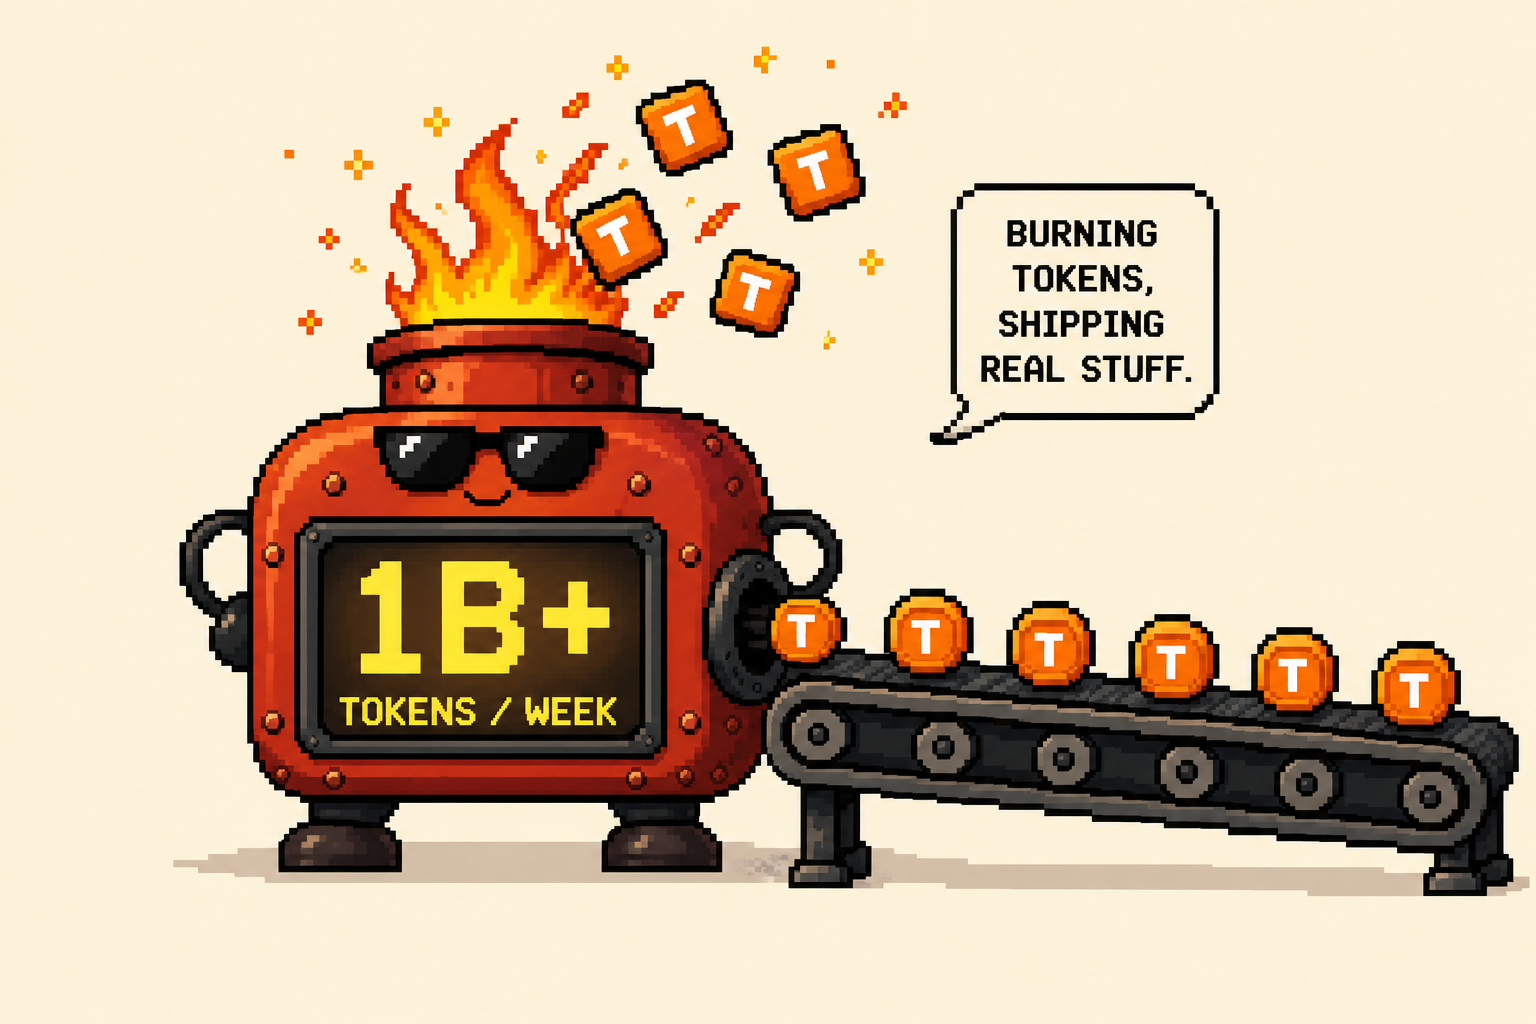
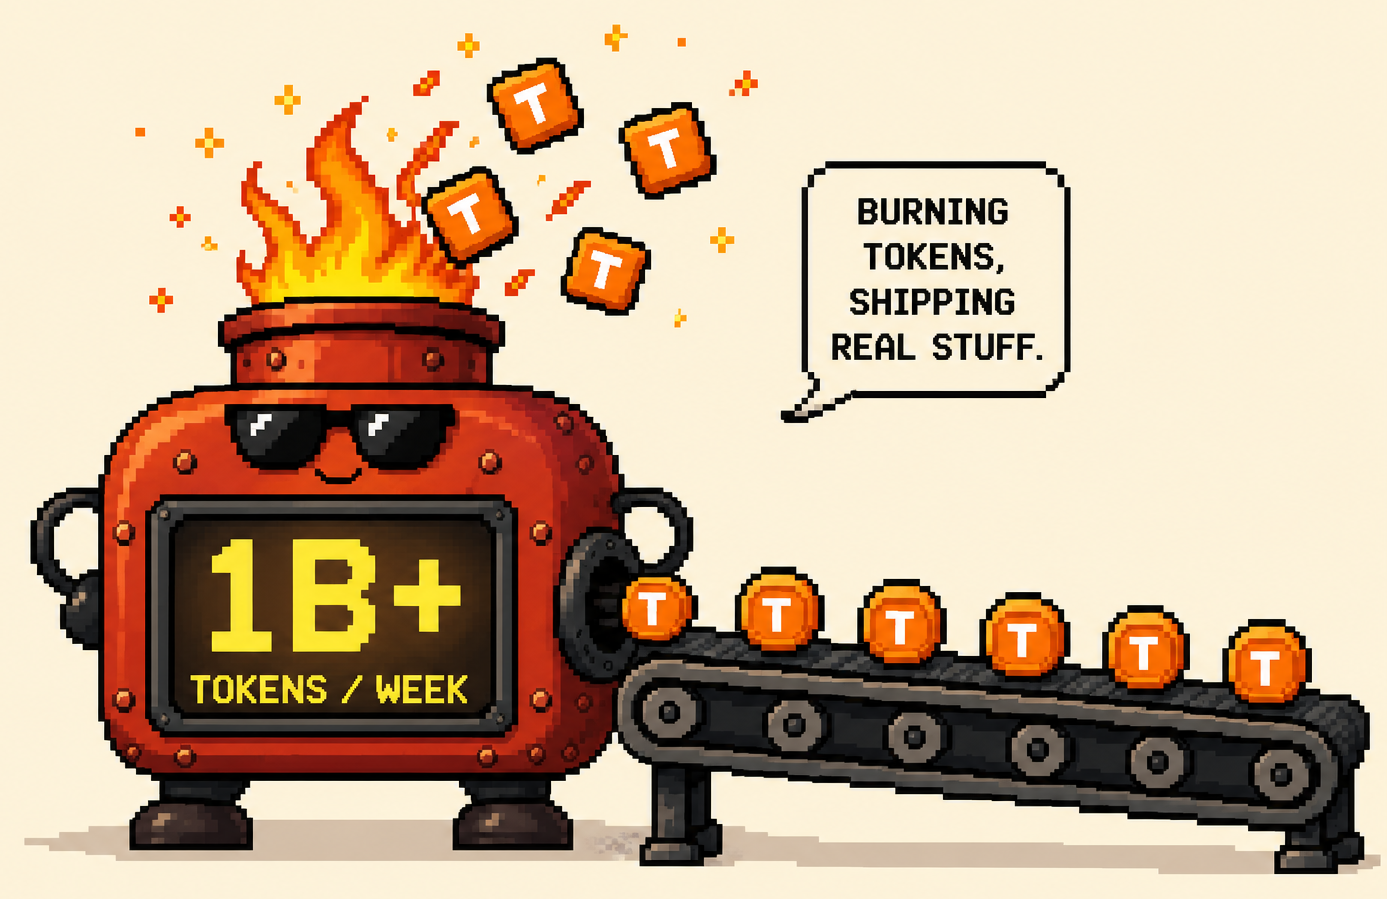
Fix honor highlight centering and rebuild tokens stage layout
last time the hacktoberfest highlight box had the star and copy glued to the top left with a bunch of empty tint under it which looked half finished. now the whole block is centered and the type plus star are big enough to actually fill the box

tokens side also got rebuilt again becoz stacking the blast over HOW IT FLOWS in a wide short strip kept turning the furnace into a postage stamp. now its a side stage furnace left logos right cropped blast art and short metric values so the pixel font doesnt wrap mid cell

diff --git a/src/components/card/card-back.tsx b/src/components/card/card-back.tsx
@@ -263,8 +263,8 @@ function HonorWorldCard({
 
 /**
  * Tokens zone — unique from other honors (no left tile).
- * header · copy + full blast furnace/conveyor · open Simple Icons flow · metrics.
- * No cream wash overlays — the blast art has to read whole.
+ * Wide-short stacks turn the blast into a postage stamp, so this is a side stage:
+ * furnace+conveyor on the left (full height), HOW IT FLOWS logos on the right.
  */
 function TokensHonorDetail({ honor }: { honor: BackHonor }) {
   const accent = honor.color;
@@ -275,94 +275,77 @@ function TokensHonorDetail({ honor }: { honor: BackHonor }) {
       className="relative flex-1 min-h-0 flex flex-col rounded-[10px] border-2 overflow-hidden bg-white"
       style={{ borderColor: accent }}
     >
-      <div className="min-h-0 flex-1 flex flex-col px-3 pt-2.5 gap-1.5 overflow-hidden">
-        {/* header */}
-        <div className="shrink-0 flex items-start justify-between gap-2">
-          <div className="min-w-0 flex flex-col gap-1">
-            <div className="flex items-end gap-1.5 flex-wrap">
-              <span className="font-pixel text-[12px] leading-none" style={{ color: accent }}>
-                1B+ TOKENS
-              </span>
-              <span className="font-pixel text-[8px] leading-none text-[#1f2a44]">
-                🔥 PER WEEK 🔥
-              </span>
-            </div>
-            <div className="flex items-center gap-1.5 flex-wrap">
-              <span
-                className="inline-flex items-center gap-1 font-pixel text-[5px] leading-none px-1.5 py-[3px] rounded-full text-white"
-                style={{ background: accent }}
-              >
-                <NounIcon name="bolt" color="#ffffff" size={8} />
-                AI VELOCITY MODE
-              </span>
-              <span className="font-card text-[11px] font-semibold leading-snug" style={{ color: accent }}>
-                {honor.sub}
-              </span>
-            </div>
-          </div>
-          {!honor.placeholder && (
-            <a
-              href={honor.url}
-              {...(proofExternal ? { target: "_blank", rel: "noopener noreferrer" } : {})}
-              onClick={(e) => e.stopPropagation()}
-              className="shrink-0 font-pixel text-[6px] leading-none px-2 py-1.5 rounded-[4px] text-white border-2 cursor-pointer hover:brightness-110 active:scale-[0.97] transition-all"
-              style={{ background: accent, borderColor: NAVY, boxShadow: "0 2px 0 rgba(0,0,0,0.2)" }}
-            >
-              OPEN PROOF {proofExternal ? "↗" : "→"}
-            </a>
-          )}
+      <div className="shrink-0 flex items-center justify-between gap-2 px-3 pt-2 pb-1.5">
+        <div className="min-w-0 flex items-center gap-2 flex-wrap">
+          <span className="font-pixel text-[11px] leading-none" style={{ color: accent }}>
+            1B+ TOKENS
+          </span>
+          <span className="font-pixel text-[7px] leading-none text-[#1f2a44]">🔥 / WK</span>
+          <span
+            className="inline-flex items-center gap-1 font-pixel text-[5px] leading-none px-1.5 py-[3px] rounded-full text-white"
+            style={{ background: accent }}
+          >
+            <NounIcon name="bolt" color="#ffffff" size={8} />
+            AI VELOCITY
+          </span>
         </div>
+        {!honor.placeholder && (
+          <a
+            href={honor.url}
+            {...(proofExternal ? { target: "_blank", rel: "noopener noreferrer" } : {})}
+            onClick={(e) => e.stopPropagation()}
+            className="shrink-0 font-pixel text-[6px] leading-none px-2 py-1.5 rounded-[4px] text-white border-2 cursor-pointer hover:brightness-110 active:scale-[0.97] transition-all"
+            style={{ background: accent, borderColor: NAVY, boxShadow: "0 2px 0 rgba(0,0,0,0.2)" }}
+          >
+            OPEN PROOF {proofExternal ? "↗" : "→"}
+          </a>
+        )}
+      </div>
 
-        {/* stage — blast takes the whole middle; logos drop under the conveyor (no wash, no second band) */}
+      <div className="min-h-0 flex-1 flex gap-2 px-3 pb-1.5 overflow-hidden">
+        {/* blast — gets the height budget so furnace + conveyor actually read */}
         <div
-          className="relative min-h-0 flex-1 rounded-[8px] overflow-hidden flex flex-col"
+          className="relative min-w-0 flex-[1.35] rounded-[8px] overflow-hidden"
           style={{ background: "#f4eee4" }}
         >
-          <div className="relative min-h-0 flex-1 flex items-center justify-center px-1 pt-1">
-            <img
-              src={`${honor.heroArt ?? honor.artTile}?v=7`}
-              alt=""
-              className="h-full w-full object-cover object-[50%_48%] pixelated"
-              style={{ imageRendering: "pixelated" }}
-              draggable={false}
-            />
-            <span
-              className="absolute left-2 top-2 inline-flex items-center gap-1 font-pixel text-[5px] leading-none px-1.5 py-1 rounded-[4px] text-white"
-              style={{ background: accent }}
-            >
-              <NounIcon name="flame" color="#ffffff" size={8} />
-              {honor.rank}
-            </span>
-          </div>
-          <div className="shrink-0 flex items-center gap-2 px-2 pb-1.5 pt-0.5">
-            <span
-              className="font-pixel text-[5px] leading-none px-1.5 py-1 rounded-[3px] text-white shrink-0"
-              style={{ background: "#1f2a44" }}
-            >
-              HOW IT FLOWS
-            </span>
-            <div className="min-w-0 flex-1 flex items-center justify-between gap-1">
-              {agents.map((agent) => (
-                <div
-                  key={agent.label}
-                  className="min-w-0 flex flex-col items-center gap-0.5"
-                  title={`${agent.label} — ${agent.blurb}`}
-                >
-                  <img
-                    src={`/logos/${agent.logo}.svg`}
-                    alt={agent.label}
-                    className="h-[18px] w-[18px] object-contain"
-                    draggable={false}
-                  />
-                  <span
-                    className="font-pixel text-[4px] leading-none text-center truncate w-full max-w-[56px]"
-                    style={{ color: accent }}
-                  >
-                    {agent.label}
-                  </span>
-                </div>
-              ))}
-            </div>
+          <img
+            src={`${honor.heroArt ?? honor.artTile}?v=11`}
+            alt=""
+            className="absolute inset-0 h-full w-full object-contain pixelated"
+            style={{ imageRendering: "pixelated" }}
+            draggable={false}
+          />
+        </div>
+
+        {/* flow column — separate from art so nothing overlaps / clips */}
+        <div
+          className="w-[132px] shrink-0 min-h-0 flex flex-col rounded-[8px] border px-1.5 py-1.5 overflow-hidden"
+          style={{ borderColor: `${accent}33`, background: "#fffaf6" }}
+        >
+          <span
+            className="shrink-0 self-center font-pixel text-[5px] leading-none px-1.5 py-[3px] rounded-[3px] text-white mb-1"
+            style={{ background: "#1f2a44" }}
+          >
+            HOW IT FLOWS
+          </span>
+          <div className="min-h-0 flex-1 flex flex-col justify-center gap-1.5 py-0.5">
+            {agents.map((agent) => (
+              <div
+                key={agent.label}
+                className="flex items-center gap-1.5 min-w-0"
+                title={`${agent.label} — ${agent.blurb}`}
+              >
+                <img
+                  src={`/logos/${agent.logo}.svg`}
+                  alt=""
+                  className="h-[14px] w-[14px] object-contain shrink-0"
+                  draggable={false}
+                />
+                <span className="font-pixel text-[5px] leading-none truncate" style={{ color: accent }}>
+                  {agent.short ?? agent.label}
+                </span>
+              </div>
+            ))}
           </div>
         </div>
       </div>
@@ -378,11 +361,14 @@ function TokensHonorDetail({ honor }: { honor: BackHonor }) {
             style={{ borderColor: `${accent}55` }}
           >
             <NounIcon name={m.icon} color={accent} size={17} className="shrink-0" />
-            <span className="min-w-0">
-              <span className="block font-pixel text-[10px] leading-none truncate" style={{ color: accent }}>
+            <span className="min-w-0 overflow-hidden">
+              <span
+                className="block font-pixel text-[10px] leading-none whitespace-nowrap truncate"
+                style={{ color: accent }}
+              >
                 {m.value}
               </span>
-              <span className="block font-pixel text-[6px] leading-none mt-1.5 text-[#7a8290] truncate">
+              <span className="block font-pixel text-[6px] leading-none mt-1.5 text-[#7a8290] whitespace-nowrap truncate">
                 {m.label}
               </span>
             </span>
@@ -521,13 +507,14 @@ function HonorWorldDetail({ honor }: { honor: BackHonor }) {
               </div>
             </div>
           ) : (
+            /* highlight box — center the star + copy so it doesnt float top-left in empty tint space */
             <div
-              className="rounded-[10px] border px-3 py-2.5 flex items-start gap-2.5 min-h-0 flex-1 overflow-hidden"
+              className="rounded-[10px] border px-3.5 py-3 flex items-center justify-center gap-3 min-h-0 flex-1 overflow-hidden"
               style={{ background: honor.tint, borderColor: accent }}
             >
-              <NounIcon name="star" color={accent} size={18} className="shrink-0 mt-0.5" />
+              <NounIcon name="star" color={accent} size={26} className="shrink-0" />
               <span
-                className="min-w-0 font-card text-[12px] font-semibold leading-[1.35] line-clamp-5 text-left"
+                className="min-w-0 max-w-[28ch] font-card text-[15px] font-semibold leading-[1.35] line-clamp-4 text-left"
                 style={{ color: "#1f2a44" }}
               >
                 {honor.highlight}

diff --git a/src/components/portfolio/data.ts b/src/components/portfolio/data.ts
@@ -583,6 +583,8 @@ export type BackHonorWin = {
 /** Token-burn flow — real brand logos under /public/logos */
 export type BackHonorAgent = {
   label: string;
+  /** optional short label for the tight HOW IT FLOWS strip */
+  short?: string;
   blurb: string;
   /** filename key for /logos/<logo>.svg */
   logo: string;
@@ -719,16 +721,16 @@ export const BACK_HONORS: BackHonor[] = [
     highlight: "Burning tokens, shipping real stuff — production AI, not recreational burn.",
     heroArt: "/honors/tokens-blast.png",
     agents: [
-      { label: "Claude Code", blurb: "Deep reasoning & coding", logo: "claude" },
-      { label: "Codex", blurb: "Agentic coding at scale", logo: "openai" },
-      { label: "OpenCode", blurb: "Terminal agent loop", logo: "opencode" },
-      { label: "Custom Agents", blurb: "DeepSeek + automations", logo: "deepseek" },
-      { label: "Perplexity", blurb: "Smart search & research", logo: "perplexity" },
+      { label: "Claude Code", short: "Claude", blurb: "Deep reasoning & coding", logo: "claude" },
+      { label: "Codex", short: "Codex", blurb: "Agentic coding at scale", logo: "openai" },
+      { label: "OpenCode", short: "OpenCode", blurb: "Terminal agent loop", logo: "opencode" },
+      { label: "Custom Agents", short: "DeepSeek", blurb: "DeepSeek + automations", logo: "deepseek" },
+      { label: "Perplexity", short: "Perplexity", blurb: "Smart search & research", logo: "perplexity" },
     ],
     metrics: [
       { icon: "token", label: "Tokens / wk", value: "1B+" },
       { icon: "bolt", label: "Mode", value: "Ship" },
-      { icon: "code", label: "Stack", value: "5 tools" },
+      { icon: "code", label: "Tools", value: "5" },
     ],
   },
 ];
